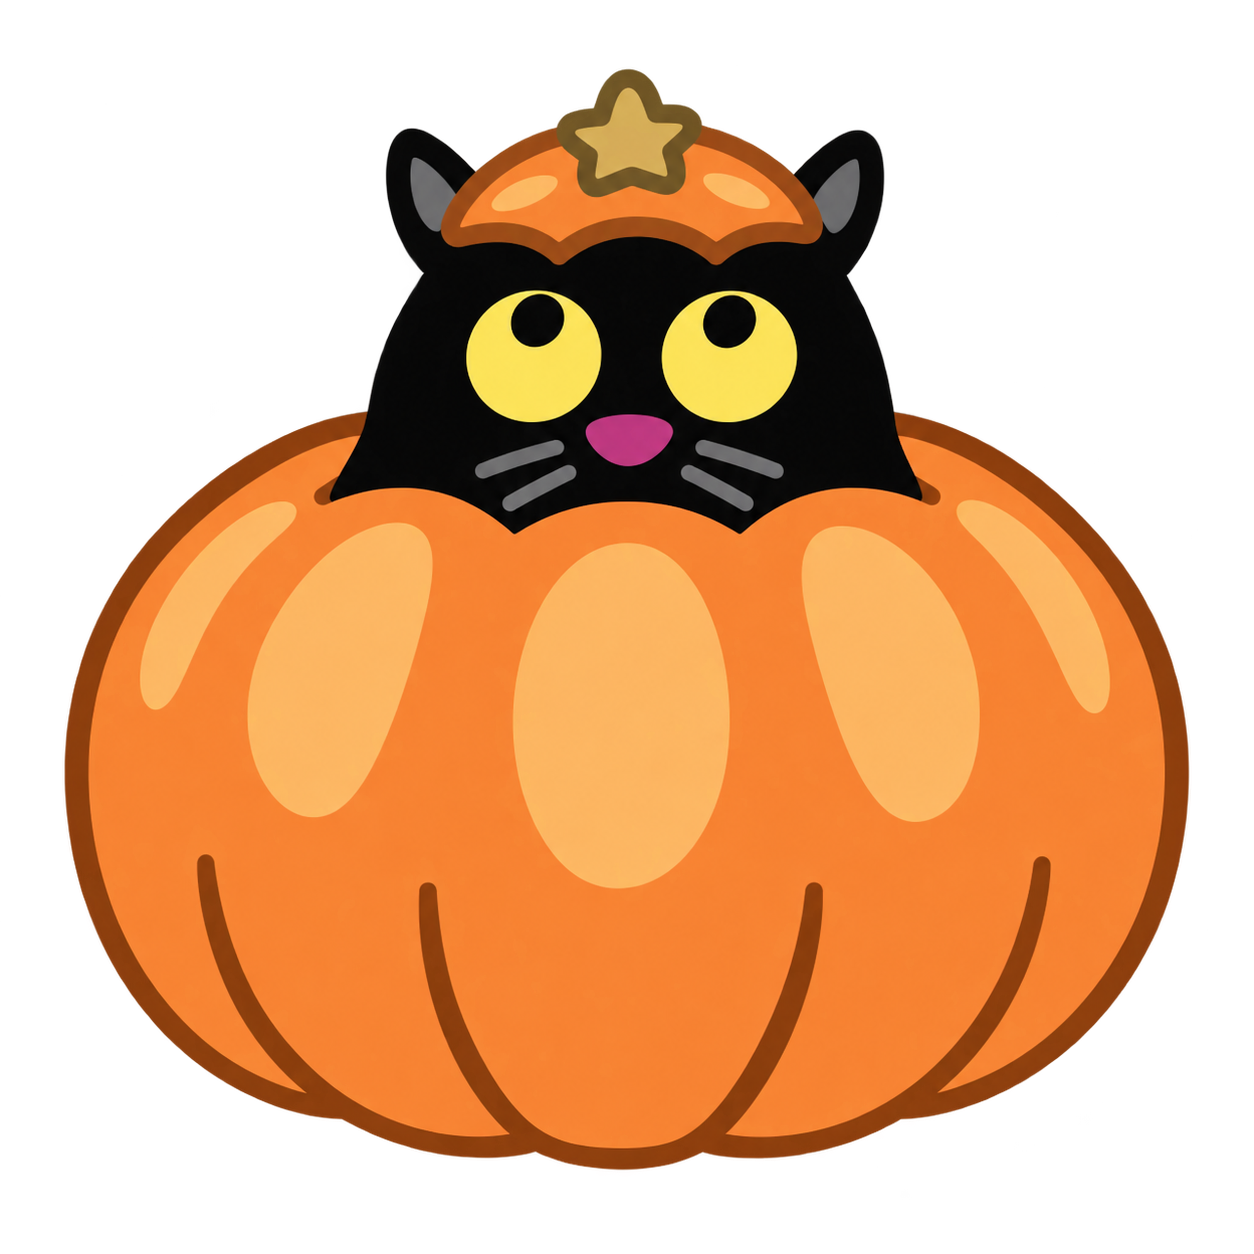
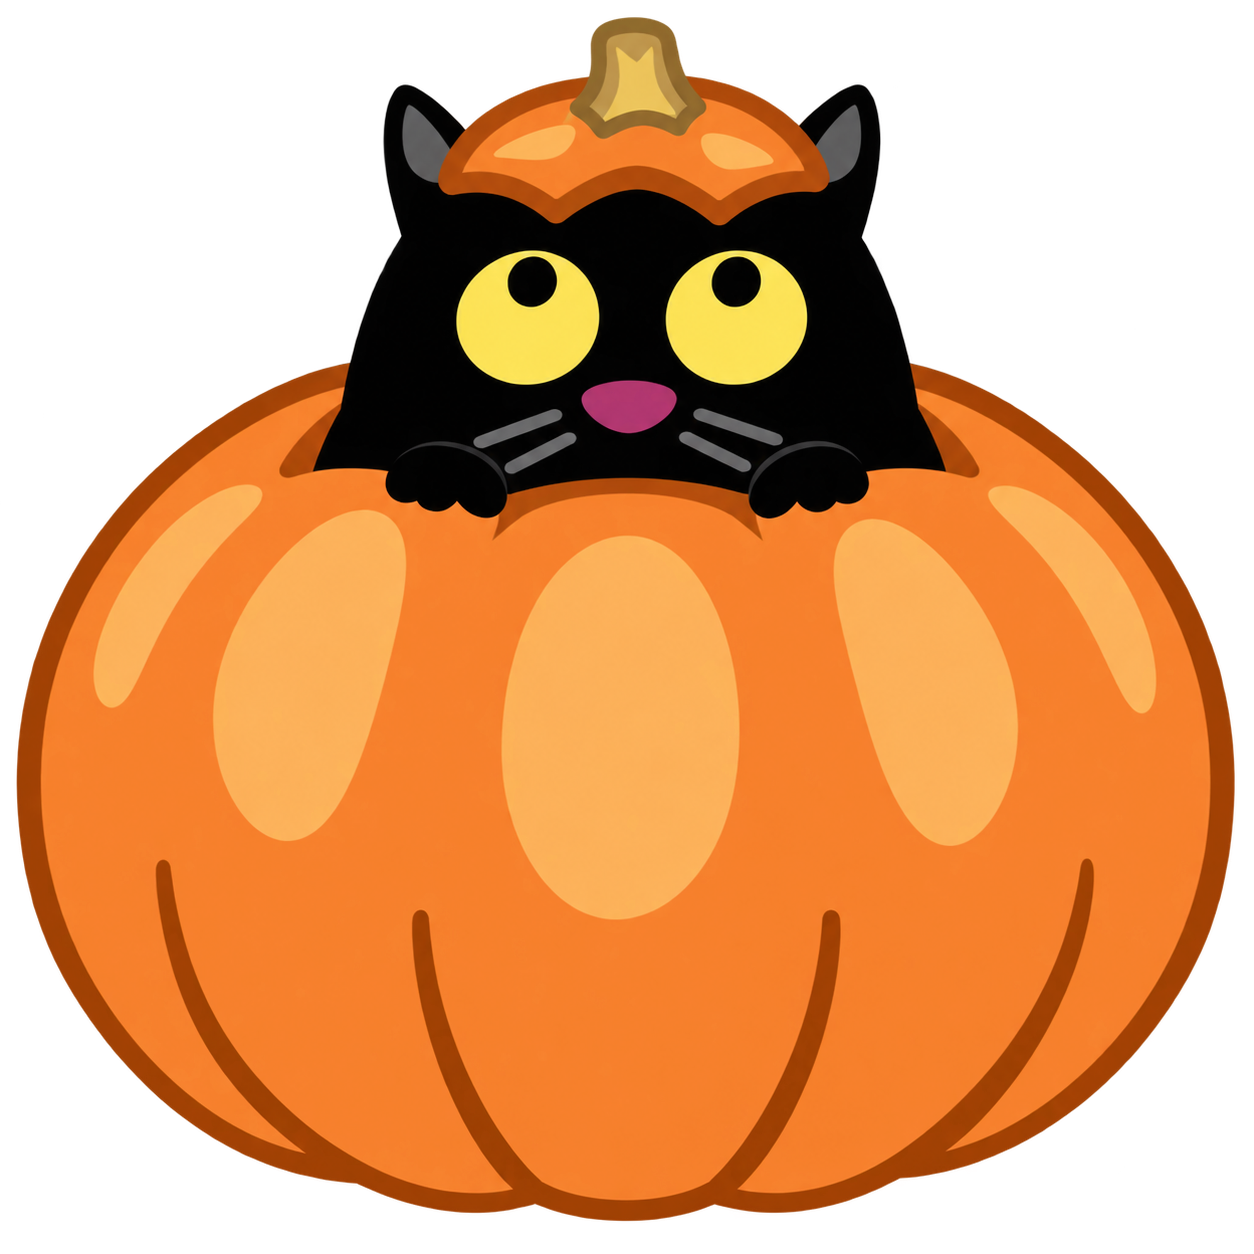
Keep the arched black cat on the iOS drawing and reproduce the pumpkin cat 1:1

Changed region(s): [[0.0, 0.0, 0.9952, 0.9952], [0.3732, 0.4665, 0.5909, 0.7464], [0.5287, 0.4354, 0.5598, 0.4665]]

diff --git a/design/imagegen/cats/README.md b/design/imagegen/cats/README.md
@@ -4,8 +4,10 @@ c01.png … c27.png (24 files) were made on 2026-09-27 with the Codex CLI built-
 tool (codex-cli 0.157.1, model gpt-6-astra), prompt in ../cats-prompt.txt, one call per cat with the
 128 px iOS drawing `meow/Assets.xcassets/cats/cNN.imageset/cNN@2x.png` as the reference.
 `android/tool/export_art.py` turns them into the 512 px `drawable-nodpi` files; a cat without a file
-here falls back to the upscaled iOS drawing. c06, c08 and c24 have no file: two attempts each came
-back with a white smear (c06, c08) or a tiny off-centre bat (c24), so those three stay on the iOS
-drawing. After the owner's review, c02 (a sitting cat instead of the arched Halloween pose) and c23
-(the ghost had lost its black tail) were generated a third time with one sentence appended to the
-prompt describing the pose and the tail.
+here falls back to the upscaled iOS drawing. c02, c06, c08 and c24 have no file: two attempts each
+came back with a white smear (c06, c08) or a tiny off-centre bat (c24), and four attempts at c02
+(the arched Halloween cat) all changed its pose or body shape, so those four stay on the iOS
+drawing. After the owner's review, c23 (the ghost had lost its black tail) was generated a third
+time with one sentence appended to the prompt describing the tail, and c16 (the cat in the pumpkin
+had come back with a different face) was generated again with ../cats-exact-prompt.txt, the
+stricter 1:1 wording, plus one sentence describing the reference.
